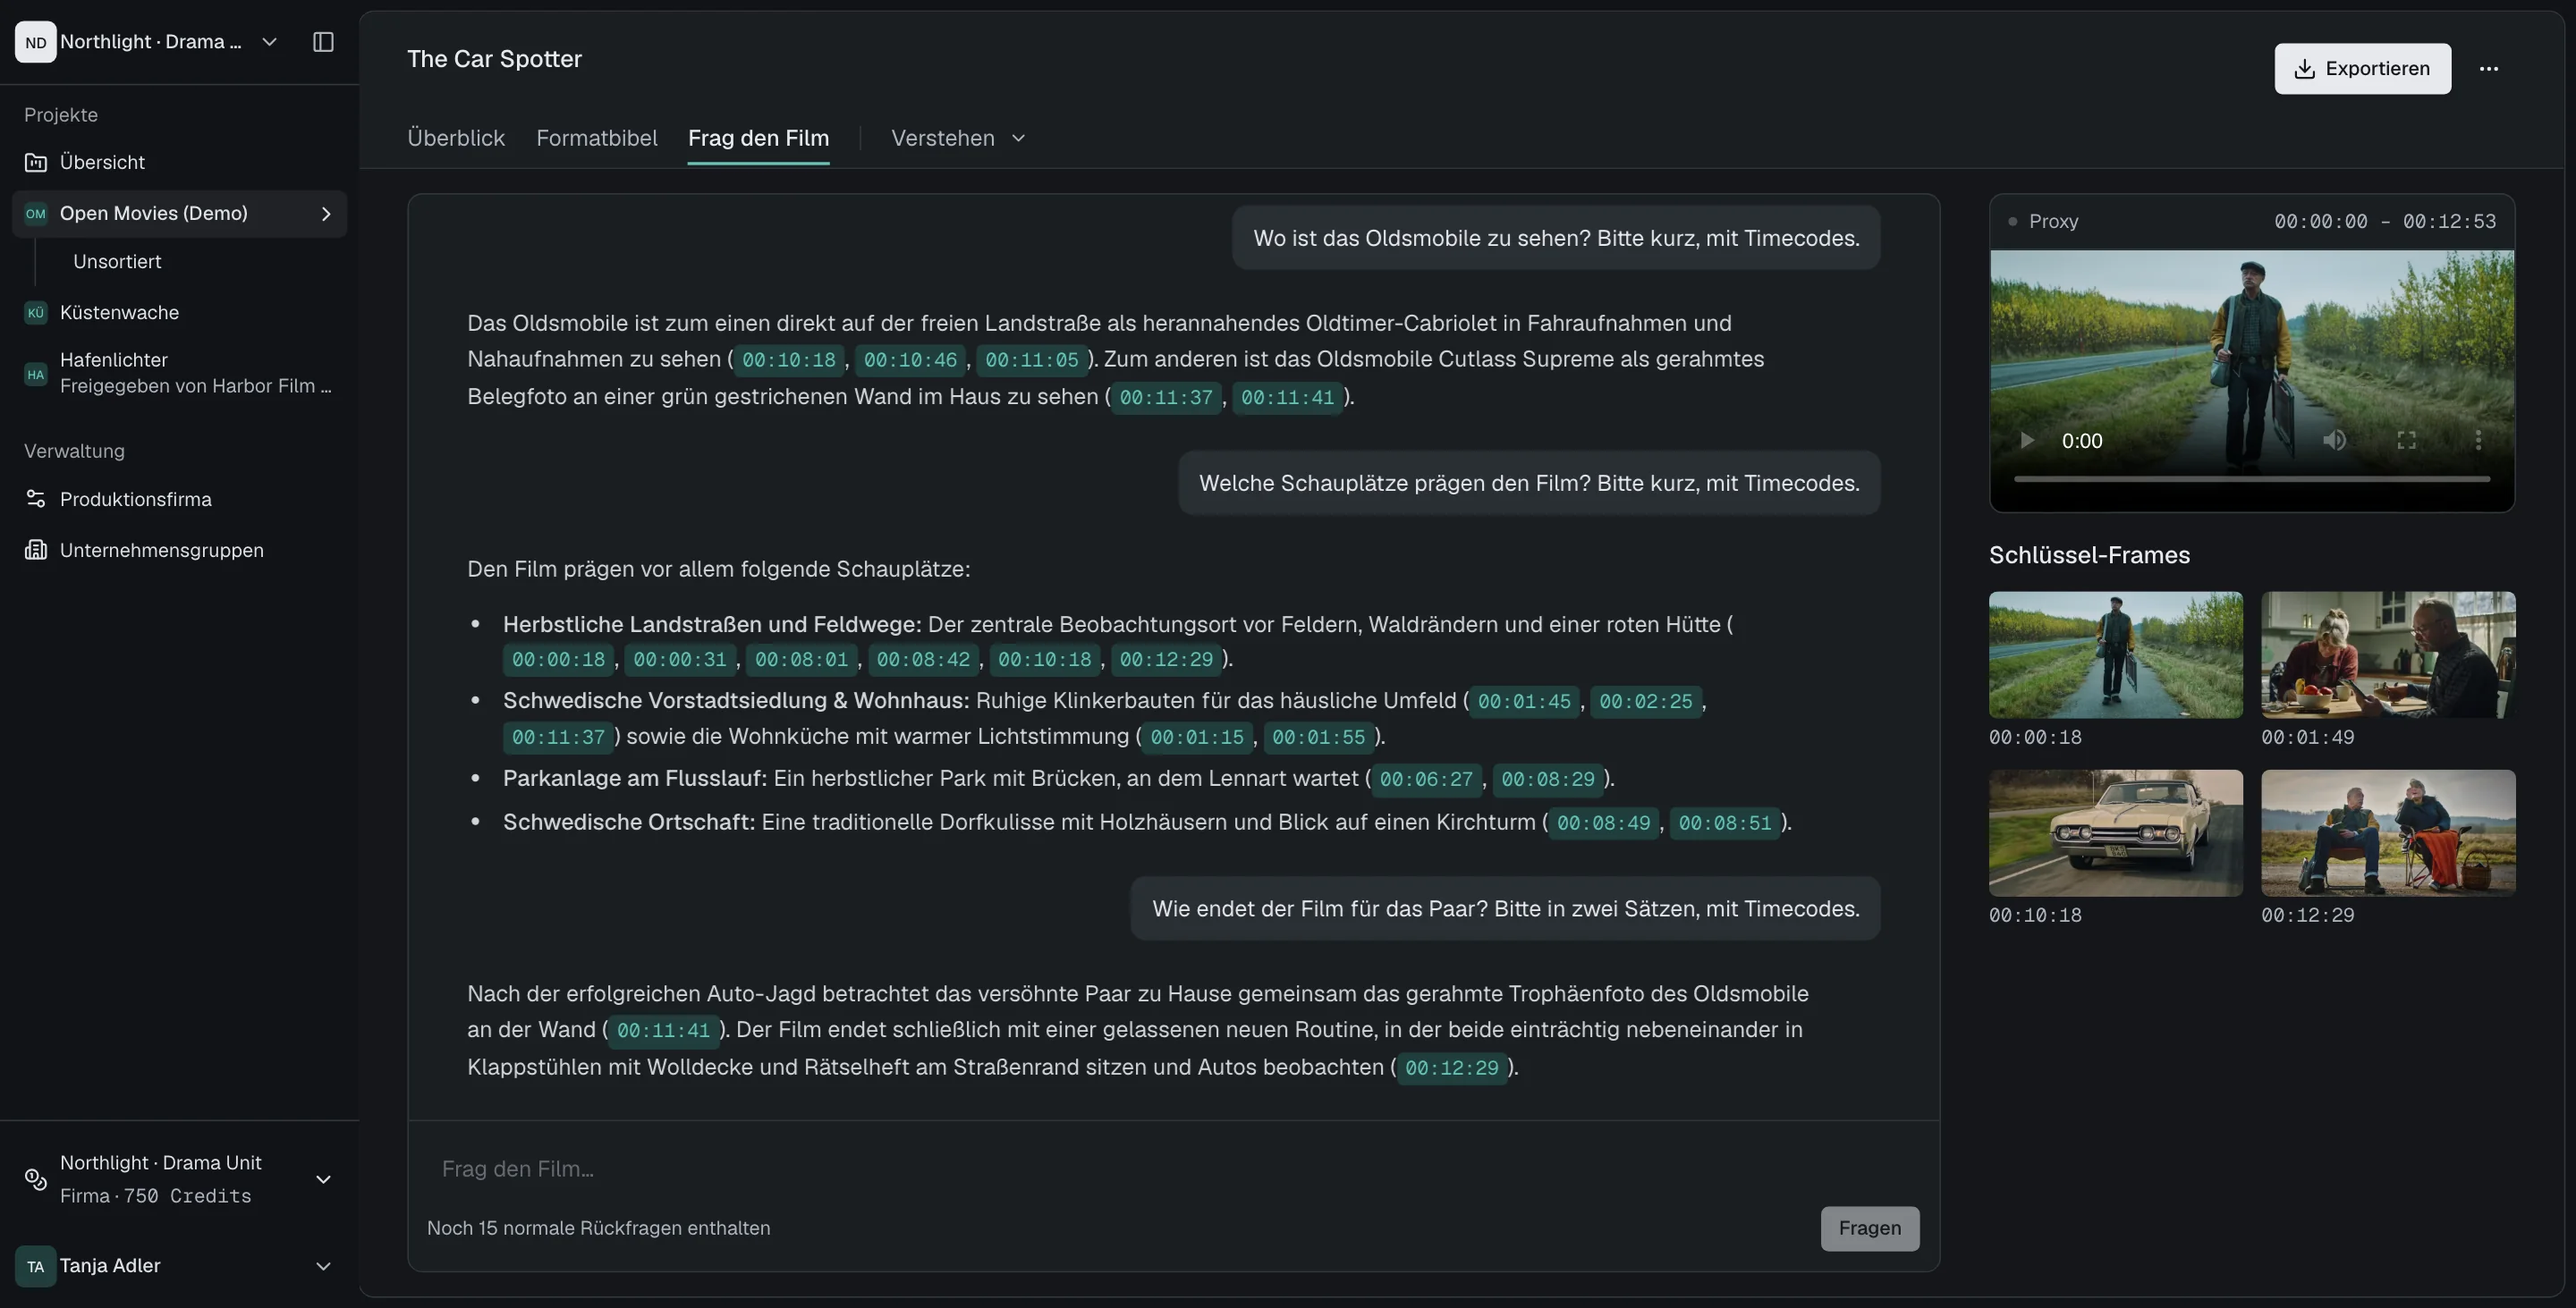
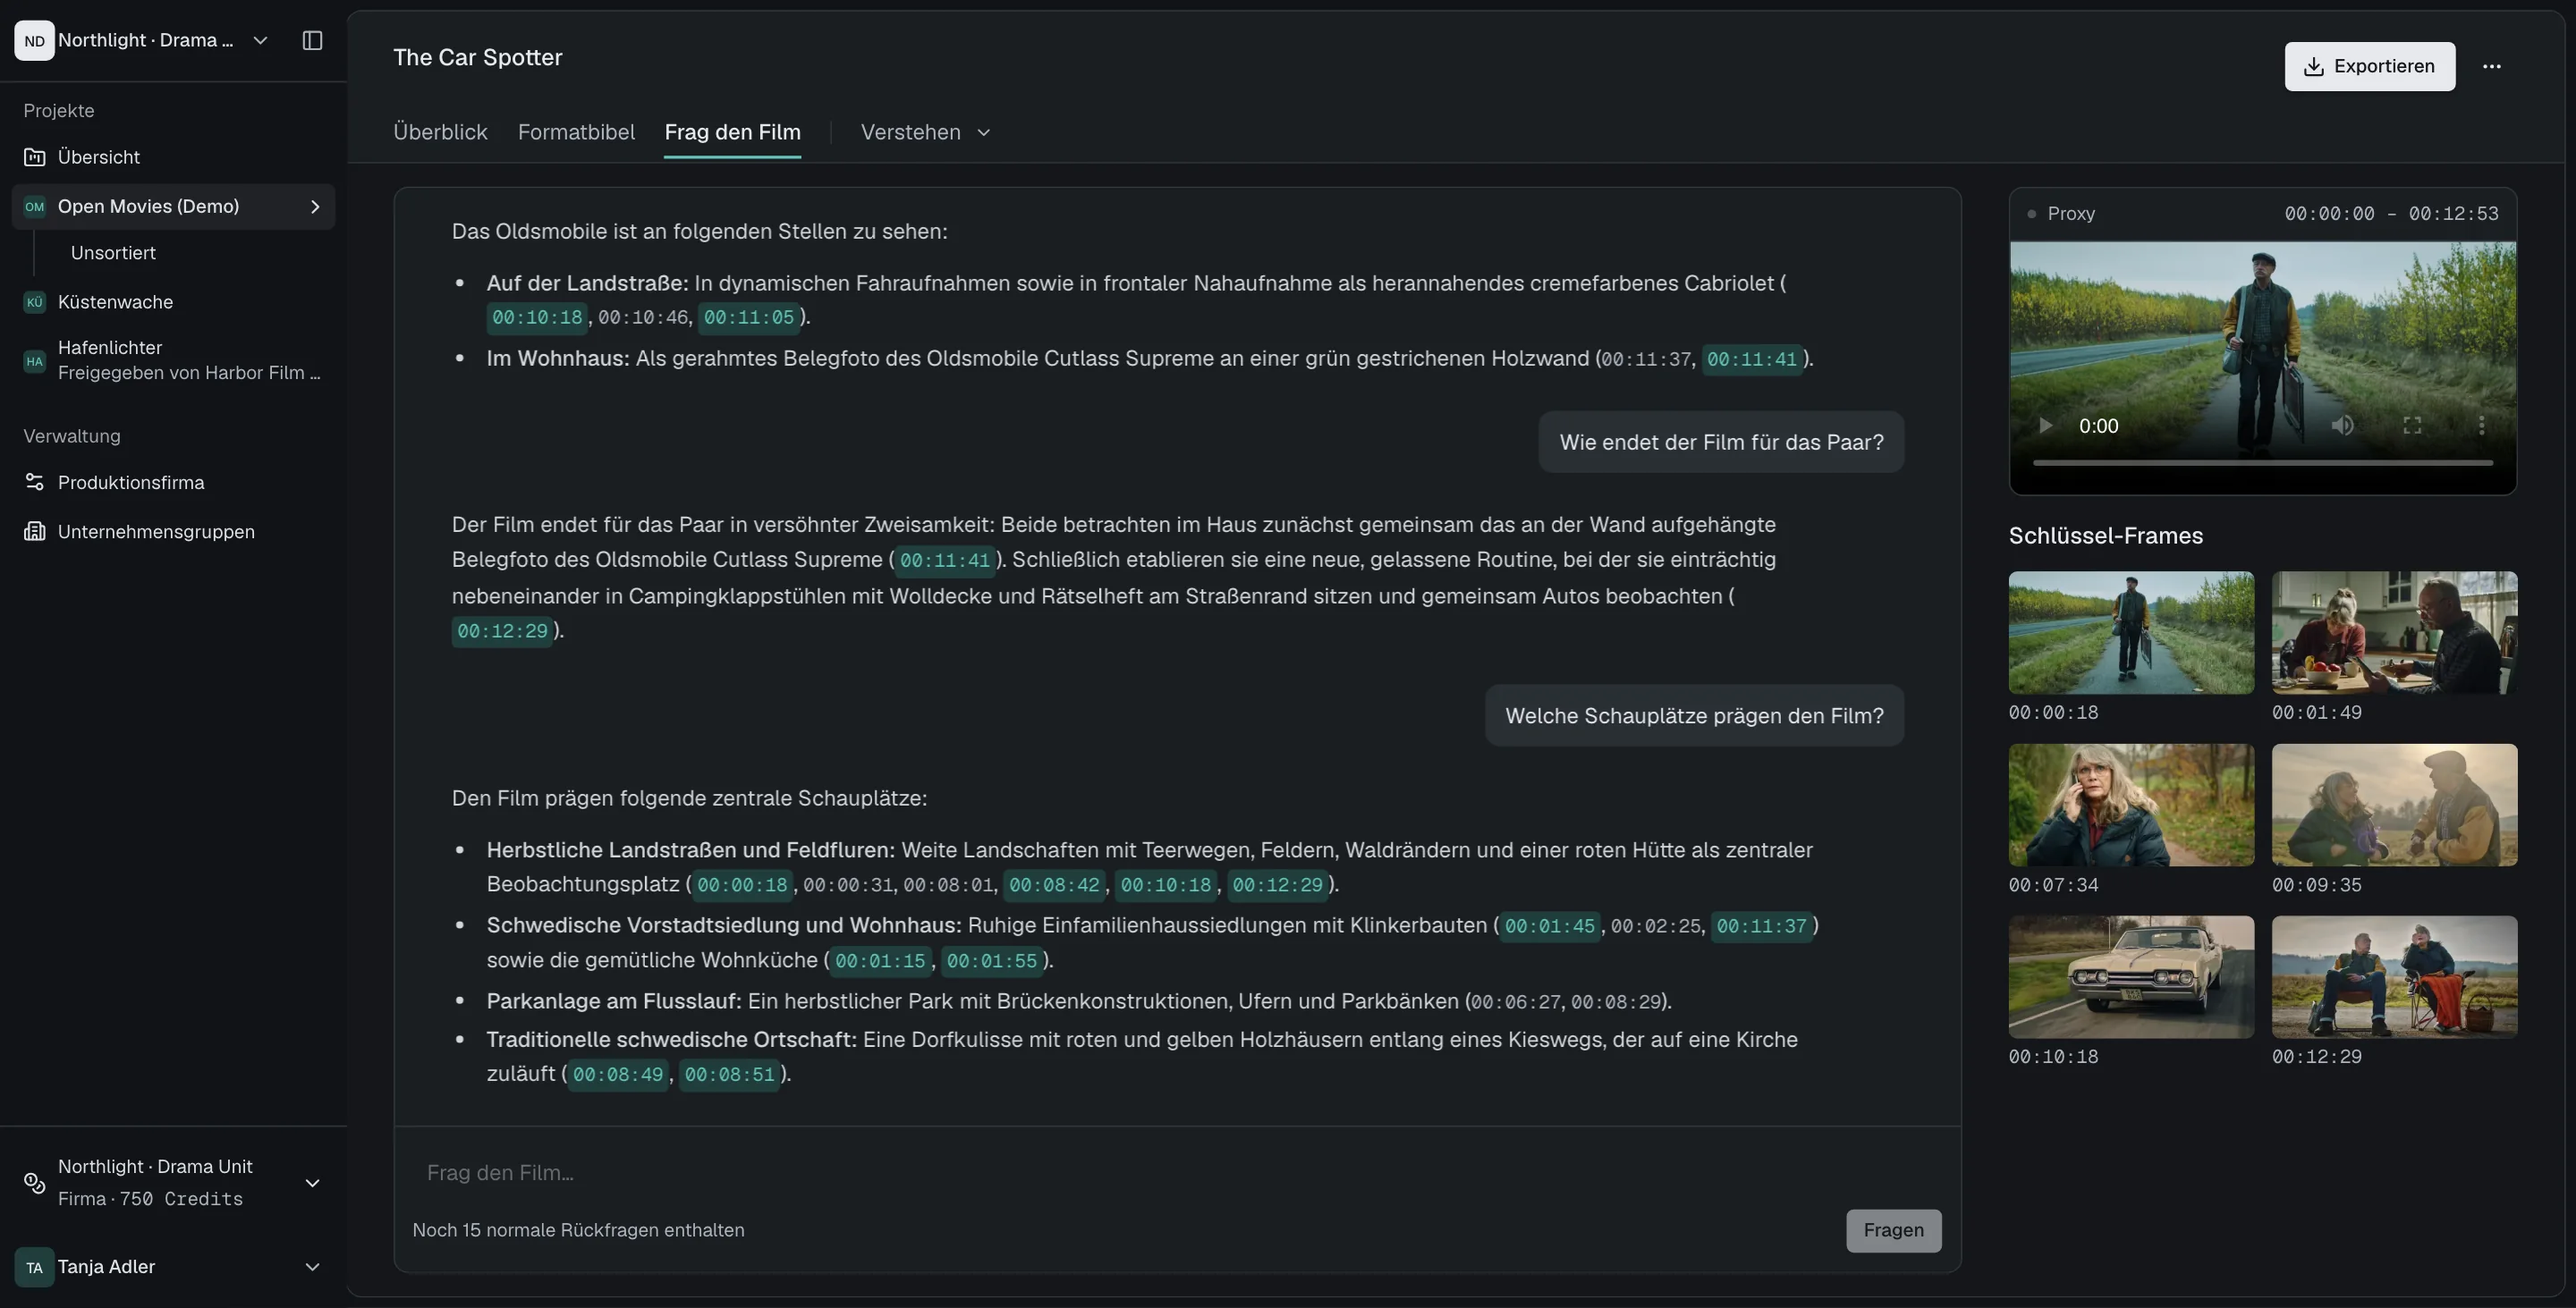
Capture the live landing and the final app views
Final screencurve state: main ffbd2a0, live on screencurve.com.

- landing.webp (en) and landing-de.webp from the live page, 1440 wide:
  the film window resting on the man on the lane (00:00:18, its Beleg
  lit), the Belege and the credit caption under the window, between the
  hero's buttons and its figures (1440×716). They serve the home wall tile
  (per locale) and the case study's share image (de.json coverImage).
- ask-the-film from the final commit with chat pairs 5, 6 and 7, at
  1780×874, the width where pair 5's whole answer stays in view.
- hero (Überblick) and image-camera from the final commit: six key frames,
  Bild / Kamera with three Belege. formatbibel stays from f54623e: the
  final preview says "Aus 13 Belegen", the live landing 79.
- The scene follows the final product: chips in running text sit tight
  (4px), seconds without a checked frame are plain Timecode text; the lit
  chip and the lead Figur use brand-strong. New card stills.
- The case study gives the film's length as 12:53, as the landing does.
- Tag ?v=20261116-car-spotter-final.

diff --git a/apps/web/src/components/marketing/home/scenes/hero-scene.tsx b/apps/web/src/components/marketing/home/scenes/hero-scene.tsx
@@ -217,6 +217,10 @@ async function script(a: Act<S>) {
 	await a.wait(2600);
 }
 
+// Cited seconds without a checked frame: the product sets them as plain
+// Timecode text, not as a chip
+const PLAIN = new Set([646, 697]);
+
 /** Timecodes the answer cites together, in one pair of brackets. */
 function Cites({ seconds }: { seconds: readonly number[] }) {
 	return (
@@ -225,7 +229,9 @@ function Cites({ seconds }: { seconds: readonly number[] }) {
 			{seconds.map((second, i) => (
 				<span key={second}>
 					{i > 0 && ", "}
-					<span className="wvh-tc">{timecode(second)}</span>
+					<span className={PLAIN.has(second) ? "wvh-tc-plain" : "wvh-tc"}>
+						{timecode(second)}
+					</span>
 				</span>
 			))}
 			).

diff --git a/apps/web/src/components/marketing/home/hero-wall.tsx b/apps/web/src/components/marketing/home/hero-wall.tsx
@@ -8,7 +8,7 @@ import "./hero-wall.css";
 const shots = "/images/case-studies";
 const wall = "/images/home/wall";
 const obsidian = "?v=20261111-eagle-obsidian";
-const carSpotter = "?v=20261115-car-spotter-views";
+const carSpotter = "?v=20261116-car-spotter-final";
 
 /** A desktop screen. A wide one is 2:1, the others 16:10, as the screens
  * are. With `page`, the picture is a long page (its height over its width)
@@ -101,6 +101,7 @@ const COLUMNS: Tile[][] = [
 		{ src: `${shots}/relay/hero-v2.webp` },
 		{
 			src: `${shots}/screencurve/landing.webp${carSpotter}`,
+			de: `${shots}/screencurve/landing-de.webp${carSpotter}`,
 			wide: true,
 		},
 		{ src: `${shots}/keel/view-1.webp` },

diff --git a/apps/web/src/data/services.ts b/apps/web/src/data/services.ts
@@ -122,7 +122,7 @@ export const services: Service[] = [
 		proof: {
 			caseStudySlug: "screencurve",
 			image:
-				"/images/case-studies/screencurve/hero.webp?v=20261115-car-spotter-views",
+				"/images/case-studies/screencurve/hero.webp?v=20261116-car-spotter-final",
 		},
 	},
 	{
@@ -150,7 +150,7 @@ export const services: Service[] = [
 		proof: {
 			caseStudySlug: "screencurve",
 			image:
-				"/images/case-studies/screencurve/ask-the-film.webp?v=20261115-car-spotter-views",
+				"/images/case-studies/screencurve/ask-the-film.webp?v=20261116-car-spotter-final",
 		},
 	},
 ];

diff --git a/apps/web/next.config.ts b/apps/web/next.config.ts
@@ -32,15 +32,15 @@ const nextConfig: NextConfig = {
 			},
 			{
 				pathname: "/images/case-studies/screencurve/**",
-				search: "?v=20261115-car-spotter-views",
+				search: "?v=20261116-car-spotter-final",
 			},
 			{
 				pathname: "/images/home/work/screencurve.webp",
-				search: "?v=20261115-car-spotter-views",
+				search: "?v=20261116-car-spotter-final",
 			},
 			{
 				pathname: "/images/home/work/screencurve-de.webp",
-				search: "?v=20261115-car-spotter-views",
+				search: "?v=20261116-car-spotter-final",
 			},
 			{
 				pathname: "/images/home/work/mpb.webp",

diff --git a/apps/web/src/components/marketing/home/scenes/hero-scene.css b/apps/web/src/components/marketing/home/scenes/hero-scene.css
@@ -350,7 +350,7 @@
 		display: inline-flex;
 		align-items: center;
 		height: 19px;
-		padding: 0 6px;
+		padding: 0 4px;
 		font-family: var(--mono);
 		font-size: 11px;
 		vertical-align: 1px;
@@ -368,6 +368,13 @@
 		color: var(--on-ink);
 		background: var(--ss-accent);
 	}
+	/* A cited second without a checked frame: Timecode text, no chip */
+	.wvh-tc-plain {
+		font-family: var(--mono);
+		font-size: 11px;
+		color: var(--faint);
+	}
+
 	.wvh-tc[data-active] {
 		box-shadow: 0 0 0 1px rgb(100 196 184 / 0.55);
 	}

diff --git a/apps/web/src/components/marketing/home/scenes/project-sc.css b/apps/web/src/components/marketing/home/scenes/project-sc.css
@@ -142,7 +142,7 @@
 		margin: -15px 0 0 -15px;
 		font-size: 10px;
 		color: #fff;
-		background: var(--mark);
+		background: var(--mark-text);
 		box-shadow: 0 0 0 5px rgb(13 148 136 / 0.12);
 	}
 
@@ -195,7 +195,7 @@
 	/* Opened, it lights up as the app's chip does */
 	.wps-tc[data-lit] {
 		color: #f8fafb;
-		background: var(--mark);
+		background: var(--mark-text);
 		transition-delay: 0s;
 	}
 

diff --git a/apps/web/src/data/systems.ts b/apps/web/src/data/systems.ts
@@ -27,7 +27,7 @@ export const customSystems: CustomSystem[] = [
 		proof: {
 			caseStudySlug: "screencurve",
 			image:
-				"/images/case-studies/screencurve/hero.webp?v=20261115-car-spotter-views",
+				"/images/case-studies/screencurve/hero.webp?v=20261116-car-spotter-final",
 		},
 	},
 	{
